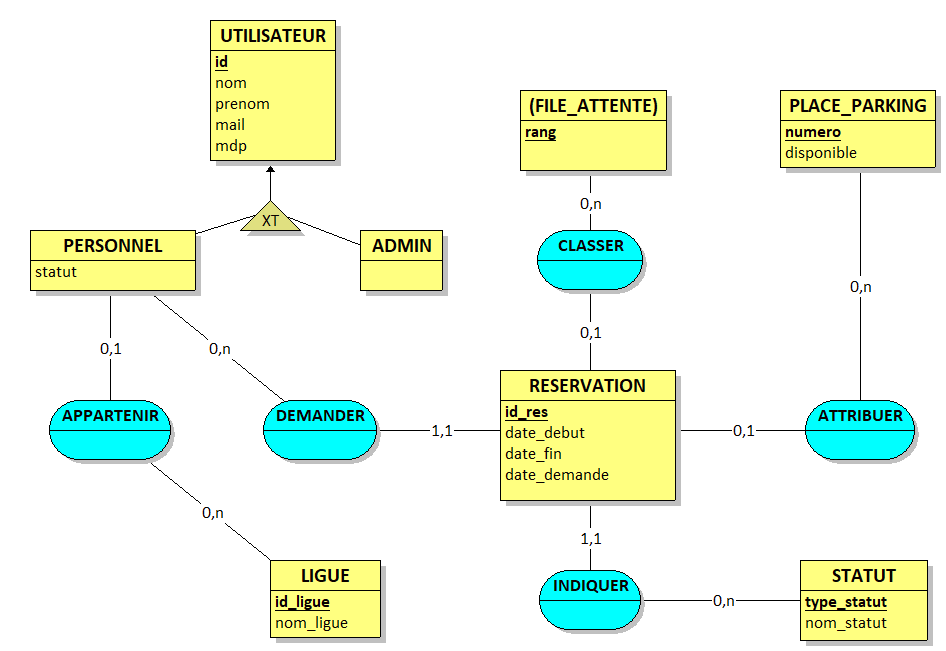
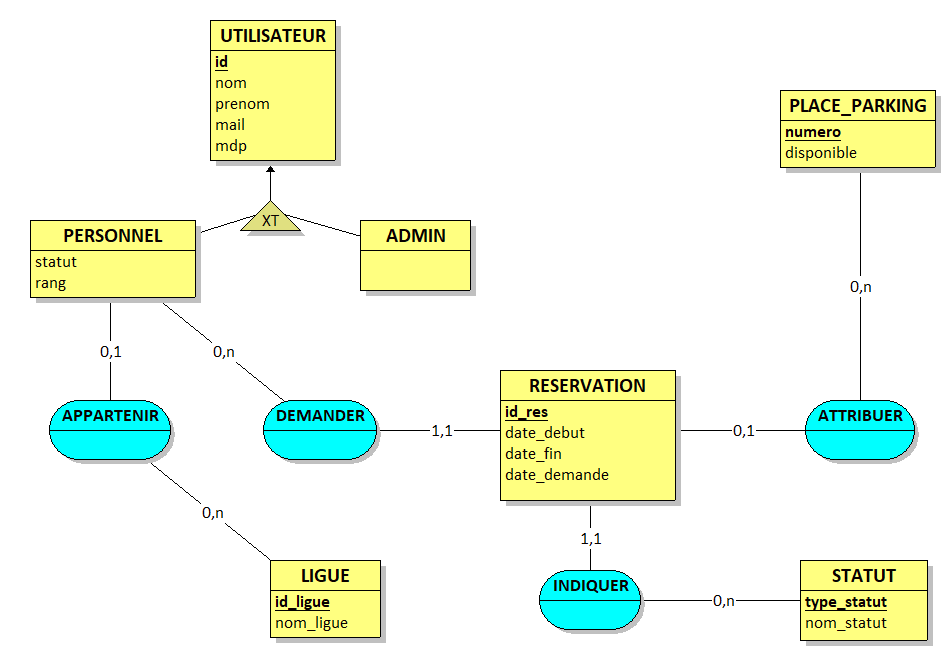
🗃 Update database

diff --git a/src/database/migrations/2020_02_24_141555_create_personnel_table.php b/src/database/migrations/2020_02_24_141555_create_personnel_table.php
@@ -20,7 +20,8 @@ class CreatePersonnelTable extends Migration
 
             $table->integer('id')->unsigned()->primary();
             $table->tinyInteger('statut')->unsigned();
-            $table->integer('id_ligue')->unsigned();
+            $table->integer('id_ligue')->unsigned()->nullable();
+            $table->bigInteger('rang')->unsigned()->nullable();
         });
     }
 
